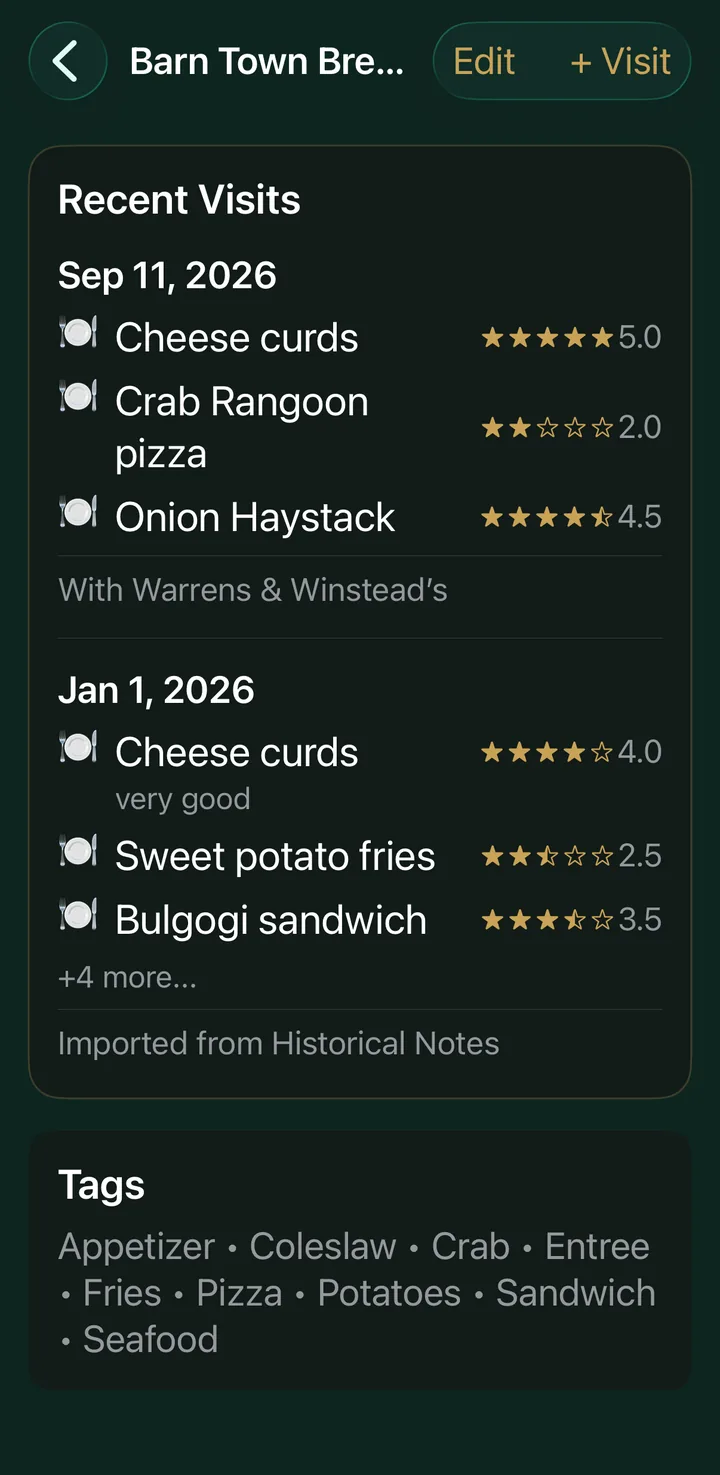
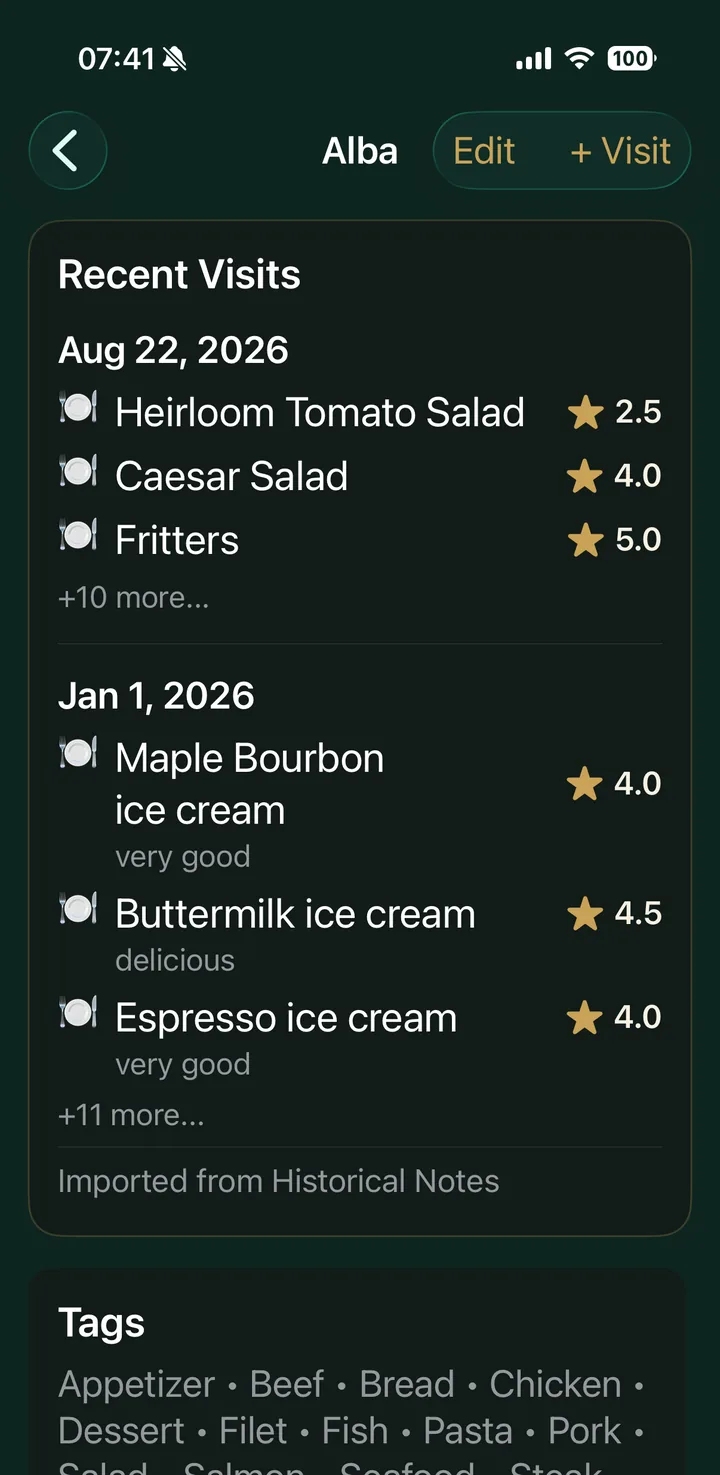
Update website screenshots with new Alba screens
Replace restaurant, visit, add-restaurant, history and restaurants
screenshots; update hero ticket, alt text and Save-a-restaurant copy to match.

Claude-Session: https://claude.ai/code/session_01Pw5xK1F4qYAsHKFbMeJpw8

diff --git a/index.html b/index.html
@@ -49,15 +49,15 @@
     </div>
 
     <div class="stage">
-      <div class="phone"><img src="assets/screens/restaurant.webp" alt="Taste Notes restaurant page for Barn Town Brewing, showing a 3.6 automatic rating, House Favorites and menu items" width="720" height="1475"></div>
+      <div class="phone"><img src="assets/screens/restaurant.webp" alt="Taste Notes restaurant page for Alba, showing a 4.7 automatic rating, House Favorites and menu items" width="720" height="1475"></div>
       <aside class="ticket" aria-label="Example visit">
-        <div class="t-head"><span class="t-name">Barn Town Brewing</span><span class="t-date">SEP 11, 2026</span></div>
+        <div class="t-head"><span class="t-name">Alba</span><span class="t-date">AUG 22, 2026</span></div>
         <ul>
-          <li><span class="dish">Cheese curds</span><span class="lead"></span><span class="score">★ 5.0</span></li>
-          <li><span class="dish">Onion haystack</span><span class="lead"></span><span class="score">★ 4.5</span></li>
-          <li><span class="dish">Crab rangoon pizza</span><span class="lead"></span><span class="score">★ 2.0</span></li>
+          <li><span class="dish">Fritters</span><span class="lead"></span><span class="score">★ 5.0</span></li>
+          <li><span class="dish">Beef Stroganoff</span><span class="lead"></span><span class="score">★ 5.0</span></li>
+          <li><span class="dish">Wild Coho Salmon</span><span class="lead"></span><span class="score">★ 3.5</span></li>
         </ul>
-        <div class="t-foot"><span class="heart">♥</span> Must order: cheese curds</div>
+        <div class="t-foot"><span class="heart">♥</span> Must order: fritters</div>
       </aside>
     </div>
   </div>
@@ -96,10 +96,10 @@
     </div>
     <ol class="steps">
       <li>
-        <div class="phone sm"><img src="assets/screens/add-restaurant.webp" alt="Add Restaurant screen with Import from Apple Maps" loading="lazy" width="720" height="1475"></div>
+        <div class="phone sm"><img src="assets/screens/add-restaurant.webp" alt="Add Restaurant screen listing nearby restaurants, closest first, with saved places marked" loading="lazy" width="720" height="1475"></div>
         <span class="num"></span>
         <h3>Save a restaurant</h3>
-        <p>Import it from Apple Maps with the address, phone and website filled in. Mark it Want to Try or Visited.</p>
+        <p>Pick it from places near you or search Apple Maps, with the address, phone and website filled in. Mark it Want to Try or Visited.</p>
       </li>
       <li>
         <div class="phone sm"><img src="assets/screens/add-visit.webp" alt="Add Visit screen listing saved restaurants sorted by distance" loading="lazy" width="720" height="1475"></div>
@@ -139,7 +139,7 @@
           <li>Tags for cuisine, ingredients and occasions</li>
         </ul>
       </div>
-      <div class="media"><div class="phone"><img src="assets/screens/history.webp" alt="Recent visits at Barn Town Brewing with each dish's rating" loading="lazy" width="720" height="1475"></div></div>
+      <div class="media"><div class="phone"><img src="assets/screens/history.webp" alt="Recent visits at Alba with each dish's rating" loading="lazy" width="720" height="1475"></div></div>
     </div>
 
     <div class="feature flip">
